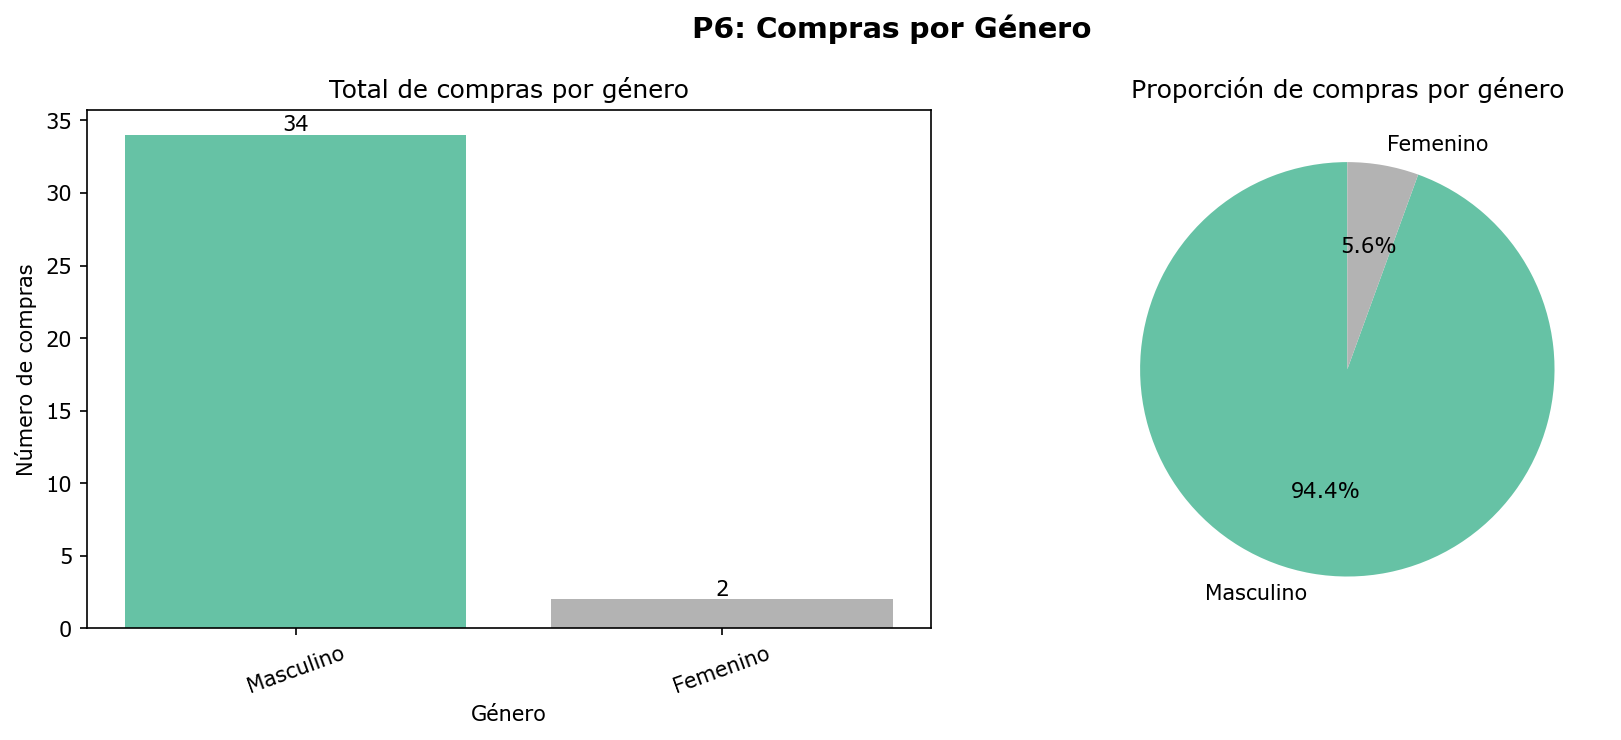
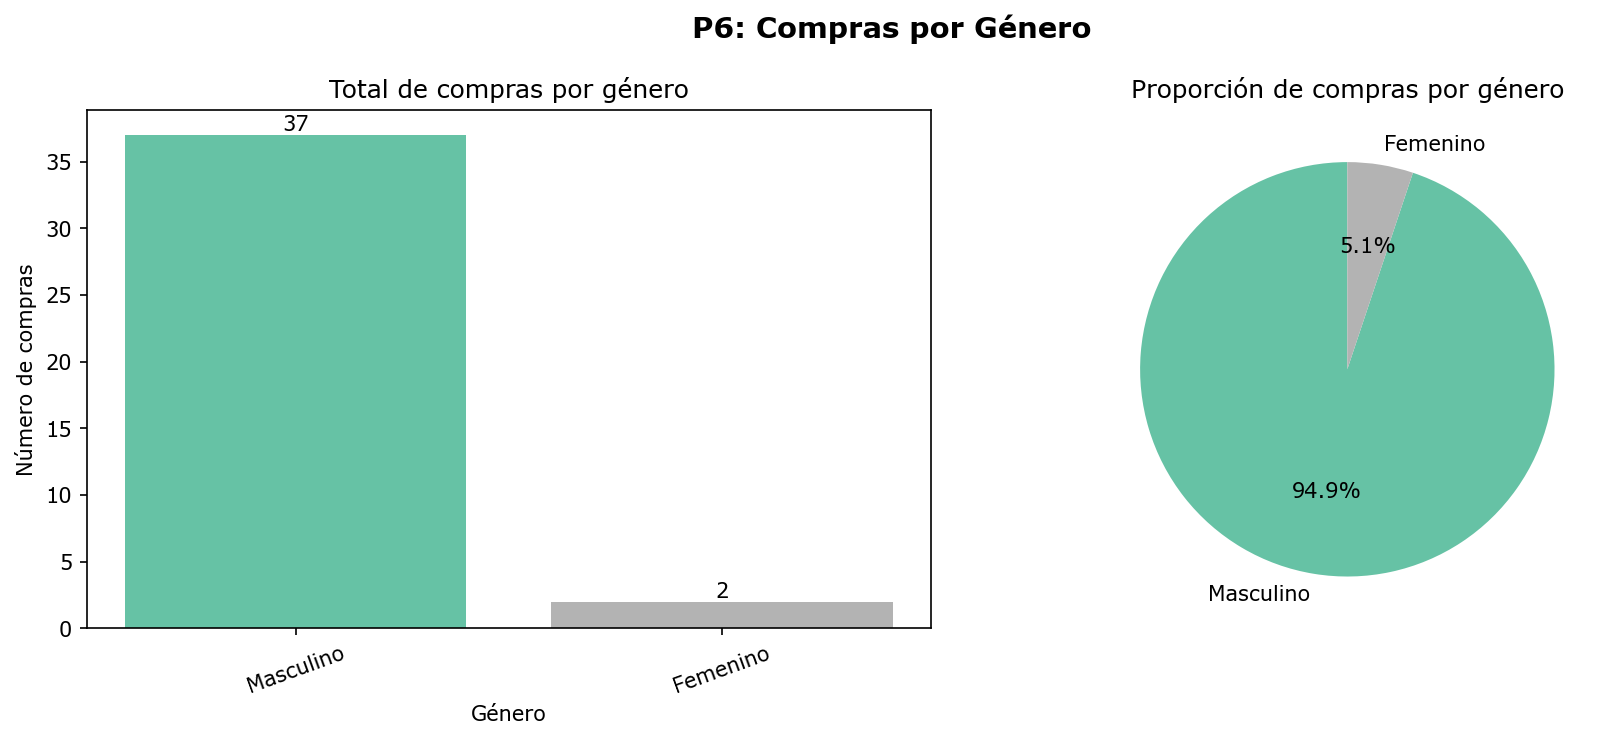
feat: agregar export CSV local para P6 (Bianca)

diff --git a/scripts/ETL/Gold/bianca_analysis.py b/scripts/ETL/Gold/bianca_analysis.py
@@ -49,6 +49,7 @@ from scipy.stats import chi2_contingency
 ROOT_DIR = Path(__file__).resolve().parents[3]
 CHARTS_DIR = ROOT_DIR / "charts"
 REPORT_PATH = ROOT_DIR / "db" / "statistical_report_bianca.md"  # archivo propio, no compartido
+CSV_PATH = ROOT_DIR / "db" / "resultados_p6_bianca.csv"  # export local, no se manda a la DB
 CHART_FILENAME = "compras_por_genero.png"
 
 ALPHA = 0.05  # Nivel de significancia (95% de confianza)
@@ -262,7 +263,47 @@ def generar_grafico_compras_genero(resumen: pd.DataFrame, output_path: Path = No
 
 
 # ============================================
-# 6) REPORTE ESTADÍSTICO PROPIO (ARCHIVO INDIVIDUAL)
+# 6) EXPORT A CSV (SOLO DISCO LOCAL, NO DB)
+# ============================================
+def exportar_csv_local(resultado: dict, csv_path: Path = CSV_PATH) -> Path:
+    """
+    Exporta los resultados de P6 a un archivo CSV en disco local. Esto es
+    solo un archivo de texto en tu computadora/repositorio: no involucra
+    ninguna conexión ni escritura a Supabase ni a ninguna base de datos.
+
+    Guarda dos bloques en el mismo CSV:
+        1. El resumen de compras por género (con porcentaje).
+        2. La tabla de contingencia usada en la prueba de Chi-cuadrado.
+
+    Args:
+        resultado: Diccionario retornado por pregunta_6_compras_genero.
+        csv_path: Ruta local donde guardar el CSV.
+
+    Returns:
+        Path del archivo CSV generado.
+    """
+    csv_path.parent.mkdir(parents=True, exist_ok=True)
+
+    resumen = resultado["resumen"].copy()
+    tabla = resultado["tabla_contingencia"].reset_index()
+
+    with open(csv_path, "w", encoding="utf-8", newline="") as f:
+        f.write("# Resumen: compras por genero\n")
+        resumen.to_csv(f, index=False)
+        f.write("\n# Tabla de contingencia (purchase vs no_purchase)\n")
+        tabla.to_csv(f, index=False)
+        f.write("\n# Prueba estadistica\n")
+        f.write(f"chi2_statistic,{resultado['chi2_statistic']}\n")
+        f.write(f"p_value,{resultado['p_value']}\n")
+        f.write(f"grados_libertad,{resultado['grados_libertad']}\n")
+        f.write(f"alpha,{resultado['alpha']}\n")
+
+    print(f"  ✓ CSV local guardado en: {csv_path}")
+    return csv_path
+
+
+# ============================================
+# 7) REPORTE ESTADÍSTICO PROPIO (ARCHIVO INDIVIDUAL)
 # ============================================
 def generar_reporte_bianca(resultado: dict, report_path: Path = REPORT_PATH) -> Path:
     """
@@ -369,8 +410,9 @@ def run_bianca_analysis() -> dict:
     print("\n[3/4] Calculando P6: Compras por género...")
     resultado = pregunta_6_compras_genero(df_local)
 
-    print("\n[4/4] Generando gráfico y reporte individual...")
+    print("\n[4/4] Generando gráfico, CSV y reporte individual (todo local)...")
     chart_path = generar_grafico_compras_genero(resultado["resumen"])
+    csv_path = exportar_csv_local(resultado)
     report_path = generar_reporte_bianca(resultado)
 
     print("\n" + "=" * 50)
@@ -381,6 +423,7 @@ def run_bianca_analysis() -> dict:
     print(resultado["conclusion"])
 
     resultado["chart_path"] = chart_path
+    resultado["csv_path"] = csv_path
     resultado["report_path"] = report_path
     return resultado
 
@@ -389,4 +432,4 @@ def run_bianca_analysis() -> dict:
 # EJECUCIÓN
 # ============================================
 if __name__ == "__main__":
-    resultado_p6 = run_bianca_analysis()    
+    resultado_p6 = run_bianca_analysis()

diff --git a/db/statistical_report_bianca.md b/db/statistical_report_bianca.md
@@ -3,7 +3,7 @@
 ## P6: ¿Qué género realiza más compras en la plataforma?
 
 **Autora:** Bianca Acosta
-**Fecha de ejecución:** 2026-07-03 19:18:17
+**Fecha de ejecución:** 2026-07-03 19:47:05
 
 ### Hipótesis
 - **H0:** El género del estudiante y la acción de compra son independientes.
@@ -20,25 +20,25 @@ realizó localmente, en memoria, sin escribir nada en la base de datos.
 
 | Género | Total de compras | Porcentaje |
 |---|---|---|
-| Masculino | 34 | 94.44% |
-| Femenino | 2 | 5.56% |
+| Masculino | 37 | 94.87% |
+| Femenino | 2 | 5.13% |
 
 ### Tabla de contingencia (observada)
 
 | Género | Purchase | No Purchase |
 |---|---|---|
 | Femenino | 2 | 5 |
-| Masculino | 34 | 51 |
+| Masculino | 37 | 56 |
 
 ### Resultado de la prueba estadística
 
 | Estadístico | Valor |
 |---|---|
-| Chi-cuadrado (χ²) | 0.0371 |
+| Chi-cuadrado (χ²) | 0.0342 |
 | Grados de libertad | 1 |
-| p-value | 0.847218 |
+| p-value | 0.853373 |
 
 ### Conclusión
-No se rechaza H0: no hay evidencia estadística suficiente para afirmar que el género esté asociado a la probabilidad de compra (p-value = 0.847218 >= alpha = 0.05).
+No se rechaza H0: no hay evidencia estadística suficiente para afirmar que el género esté asociado a la probabilidad de compra (p-value = 0.853373 >= alpha = 0.05).
 
 ![Compras por género](../charts/compras_por_genero.png)
